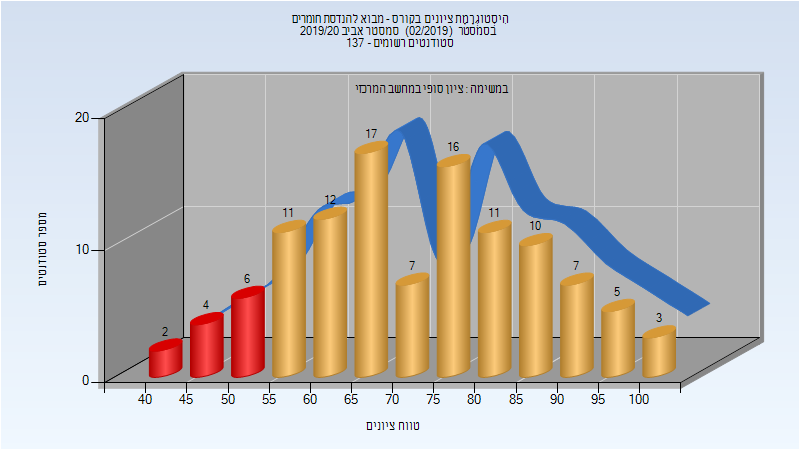
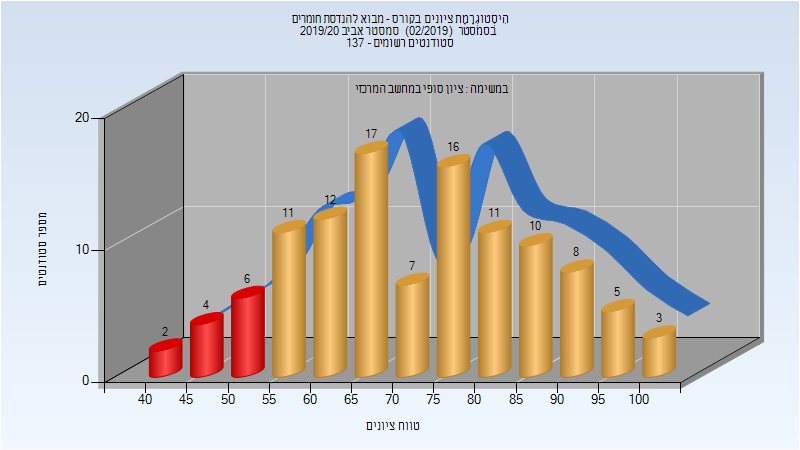
Deploy michael-maltsev/technion-histograms to github.com/michael-maltsev/technion-histograms.git:gh-pages

Changed region(s): [[0.6875, 0.4978, 0.8438, 0.6533]]

diff --git a/314535/index.html b/314535/index.html
@@ -797,13 +797,13 @@
 </thead>
 <tbody>
 <tr>
-<td>111</td>
-<td>99/12</td>
+<td>112</td>
+<td>100/12</td>
 <td>89</td>
 <td>42</td>
 <td>100</td>
-<td>72.144</td>
-<td>73</td>
+<td>72.312</td>
+<td>73.5</td>
 </tr>
 </tbody>
 </table>

diff --git a/314535/README.md b/314535/README.md
@@ -247,5 +247,5 @@
 
 | סטודנטים | עברו/נכשלו | אחוז עוברים | ציון מינימלי | ציון מקסימלי | ממוצע | חציון |
 | ---- | ---- | ---- | ---- | ---- | ---- | ---- |
-| 111 | 99/12 | 89 | 42 | 100 | 72.144 | 73 |
+| 112 | 100/12 | 89 | 42 | 100 | 72.312 | 73.5 |
 
